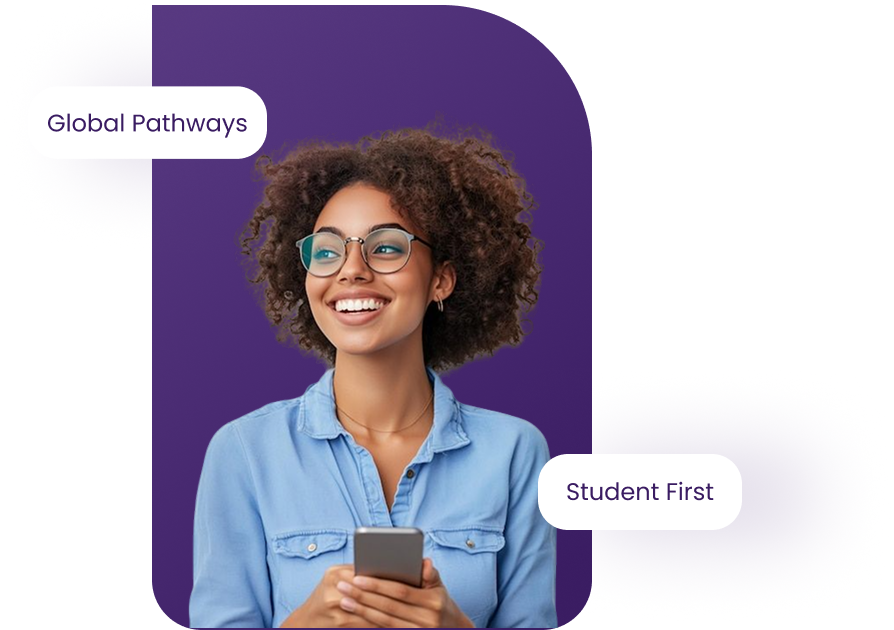
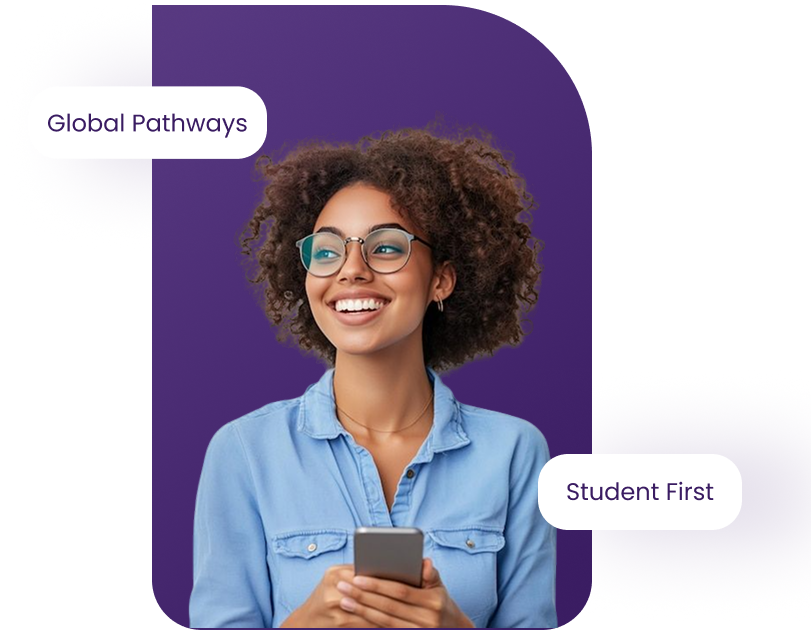
image dimension changes and the animation changes

diff --git a/src/components/Hero.jsx b/src/components/Hero.jsx
@@ -74,7 +74,7 @@ const Hero = () => {
                   alt="Hero"
                   className="lg:max-w-[700px] max-w-[300px] h-auto"
                   animate={{
-                    y: [0, -20, 0],
+                    y: [0, -10, 0],
                   }}
                   transition={{
                     duration: 3,
